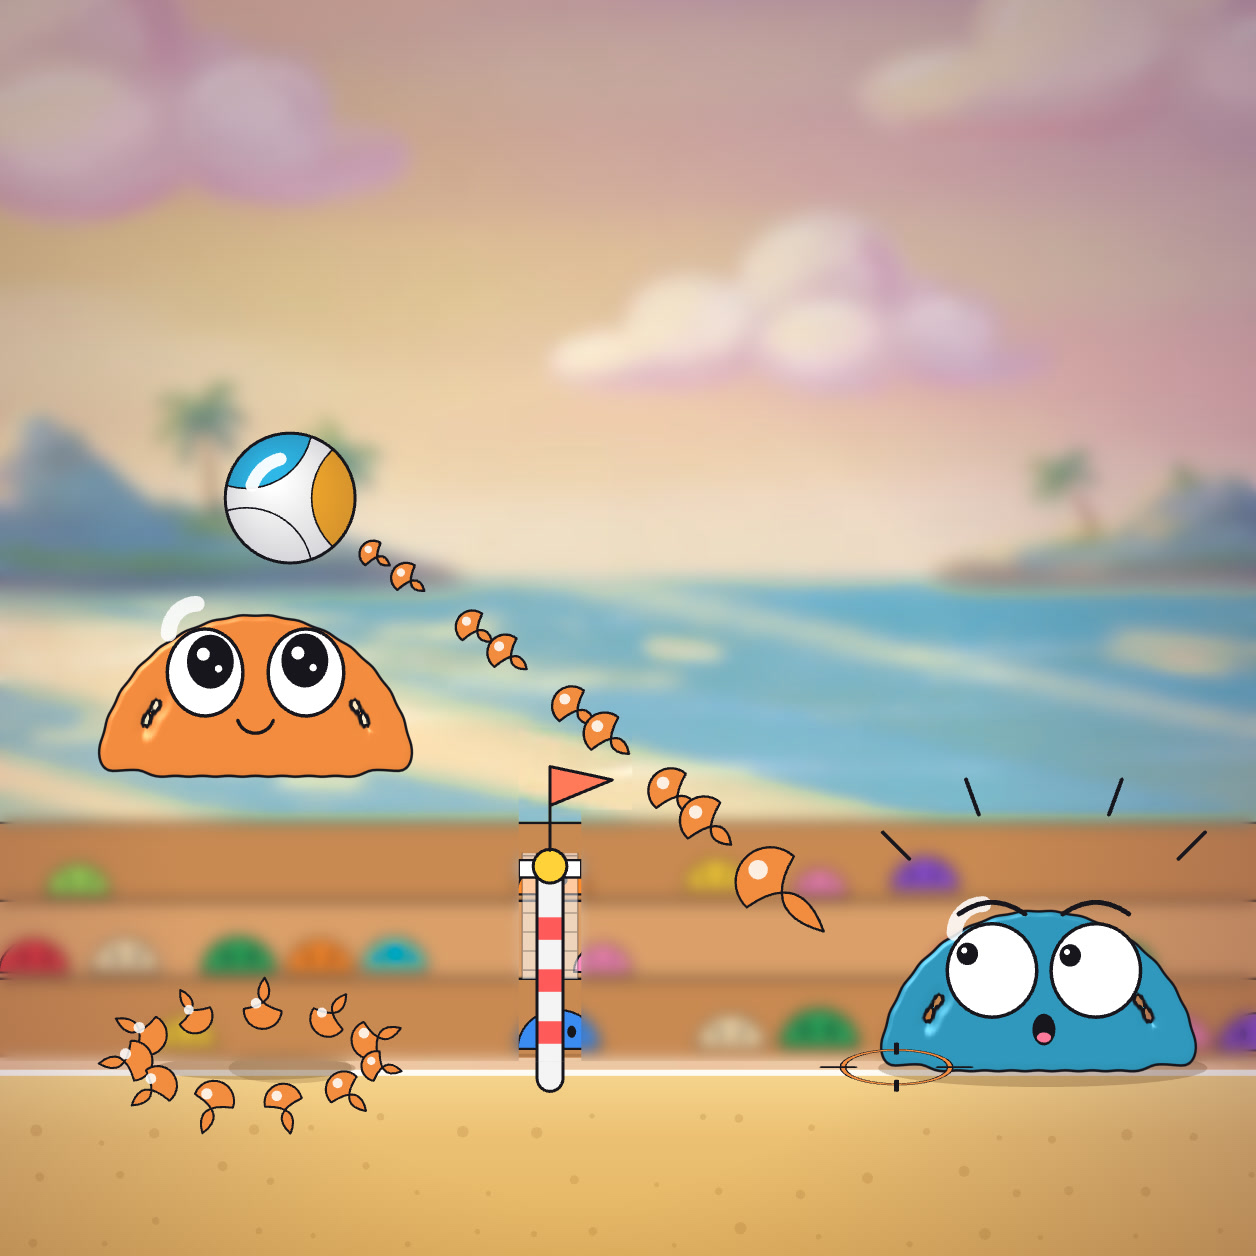
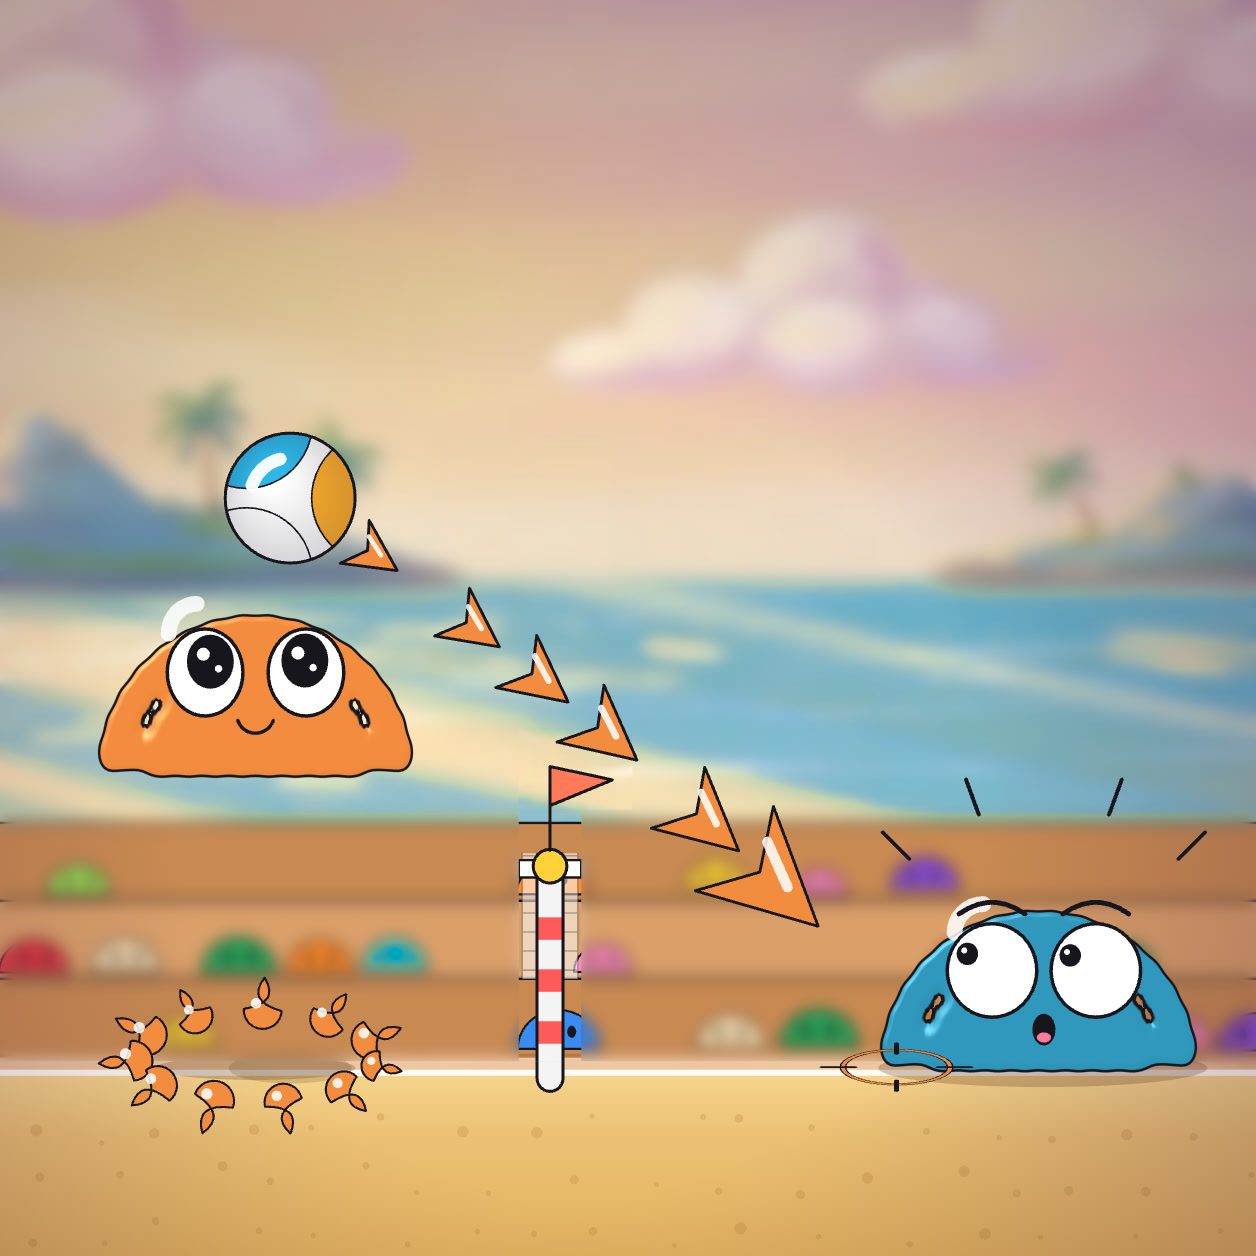
build: thumb com setas no lugar das gotas da mira
- tools/thumb.html: 6 setas laranja (contorno de tinta e o brilho das gotas) nos
  pontos da mira, crescendo ate a ultima; a cena desenha so a reticula
  (CORTADA.gotas = 0 na pagina); o jogo segue com as gotas
- marketing/thumb: opcoes, tiles e a final regeradas

Claude-Session: https://claude.ai/code/session_01PFBGZbJjoog63eKZj94J4v

Changed region(s): [[0.3416, 0.4658, 0.6521, 0.7452], [0.2795, 0.4037, 0.3416, 0.4658]]

diff --git a/tools/thumb.html b/tools/thumb.html
@@ -4,7 +4,7 @@
 <body><canvas id="c"></canvas><pre id="medidas"></pre>
 <script type="module">
 // Thumb da Poki feita com o proprio jogo (porte do slime-merge): a partida monta a cena pelo
-// roteiro da cortada (a Laranjinha no ar, a mira em gotas e a reticula no piso do rival) e a cena
+// roteiro da cortada (a Laranjinha no ar, a mira em setas e a reticula no piso do rival) e a cena
 // do jogo desenha os quatro canvases (fundo da praia com a arte, plateia, piso, gosma em WebGL2,
 // rostos, bola, mira e respingos), com a camera presa num quadro fixo. Direcao A, skin padrao.
 // Regras (developers.poki.com/guide/game-thumbnail, as mesmas do slime-merge):
@@ -14,7 +14,8 @@
 //   - um assunto principal, com pose dinamica, o personagem na skin padrao;
 //   - parecida com o jogo de verdade; contraste alto e nada perto do #83FFE7 do site;
 //   - legivel nos tiles pequenos (ver ?grade).
-// Desenho (§3.11): a Laranjinha no ar na pose da cortada; linha de gotas, reticula no piso e
+// Desenho (§3.11): a Laranjinha no ar na pose da cortada; linha de gotas (aqui setas, pedido
+// do usuario: o jogo segue com gotas), reticula no piso e
 // respingos na cor do time (sem anel branco); plateia desfocada; sem texto. A Arena ainda nao
 // existe como ginasio: vai a Praia, a do jogo.
 //   ?opcao=quadra&s=1256  a thumb no tamanho s (o canvas #c; a janela pode ter qualquer tamanho)
@@ -23,14 +24,16 @@
 //   ?opcao=quadra&perto   a thumb de 628 px com os pixels perto do #83FFE7 em magenta
 import { criarPartida } from '../src/jogo/partida.js';
 import { assentar } from '../src/jogo/pele.js';
-import { resolver } from '../src/jogo/cortada.js';
+import { resolver, gotasDaMira, CORTADA } from '../src/jogo/cortada.js';
 import { skin } from '../src/jogo/skins.js';
 import { rival } from '../src/jogo/rivais.js';
 import { hexDaMistura } from '../src/cor/km.js';
 import { criarVista } from '../src/render/vista.js';
 import { criarCena, QUALIDADES } from '../src/render/cena.js';
 import { tonalidade } from '../src/render/celebracao.js';
-import { paraTela } from '../src/render/camera.js';
+import { paraTela, aplicar } from '../src/render/camera.js';
+import { ESTILOS } from '../src/render/quadra.js';
+import { TINTA } from '../src/render/fundo.js';
 import { REDE_H } from '../src/fisica/volei.js';
 
 const q = new URLSearchParams(location.search);
@@ -51,6 +54,8 @@ const OPCOES = {
   meia: { centro: [0.2, 4.7], lado: 12, x: -3.0, y: 3.2, rivalX: 5.2, alvoX: 3.6, caras: ['feliz', 'susto'] },
 };
 const O = { ...(OPCOES[OPCAO] || OPCOES.quadra) };
+/** Quantas setas na mira (as gotas do jogo sao 9; setas maiores pedem menos). */
+const SETAS = 6;
 // ?caras=feliz,susto troca as expressoes (para comparar)
 if (q.has('caras')) O.caras = q.get('caras').split(',');
 
@@ -108,6 +113,11 @@ P.bola.x = C.bx;
 P.bola.y = C.by;
 C.alvoX = O.alvoX;
 resolver(C, s0.lado);
+// setas no lugar das gotas da mira (pedido do usuario): os pontos sao os das gotas, com menos
+// delas; a cena desenha so a reticula (sem gotas) e as setas vao por cima no fim
+CORTADA.gotas = SETAS;
+const setas = gotasDaMira(C);
+CORTADA.gotas = 0;
 // o quadro anterior igual ao atual: a vista nao interpola nada
 const A = P.anterior;
 for (const i of [0, 1]) {
@@ -170,6 +180,49 @@ function thumb(cv, n) {
   vinheta(g, n);
   g.drawImage(el.slime, 0, 0, n, n);
   g.drawImage(el.topo, 0, 0);
+  desenharSetas(g, cam);
+}
+
+/**
+ * A mira em setas: cada uma aponta pela trajetoria (do ponto anterior para o seu), crescendo
+ * como as gotas (a ultima maior); laranja do time, contorno de tinta e o brilho das gotas.
+ */
+function desenharSetas(g, cam) {
+  aplicar(g, cam, 1);
+  const tr = Math.max(0.03, ESTILOS.a.traco / cam.s) * 1.1;
+  const m = setas.length / 3;
+  g.lineJoin = 'round';
+  for (let k = 0; k < m; k++) {
+    const x = setas[k * 3];
+    const y = setas[k * 3 + 1];
+    const px = k ? setas[(k - 1) * 3] : C.bx;
+    const py = k ? setas[(k - 1) * 3 + 1] : C.by;
+    const r = (0.34 + 0.24 * (m > 1 ? k / (m - 1) : 1)) * (k === m - 1 ? 1.3 : 1);
+    g.save();
+    g.translate(x, y);
+    g.rotate(Math.atan2(y - py, x - px));
+    g.beginPath();
+    g.moveTo(r, 0);
+    g.lineTo(-r * 0.75, r * 0.88);
+    g.lineTo(-r * 0.22, 0);
+    g.lineTo(-r * 0.75, -r * 0.88);
+    g.closePath();
+    g.fillStyle = cores[0];
+    g.fill();
+    g.lineWidth = tr;
+    g.strokeStyle = TINTA;
+    g.stroke();
+    // brilho: um risco claro na aba de cima
+    g.lineCap = 'round';
+    g.lineWidth = r * 0.16;
+    g.strokeStyle = 'rgba(255,255,255,0.85)';
+    g.beginPath();
+    g.moveTo(-r * 0.45, r * 0.42);
+    g.lineTo(r * 0.25, r * 0.12);
+    g.stroke();
+    g.restore();
+  }
+  g.setTransform(1, 0, 0, 1, 0, 0);
 }
 
 /**
